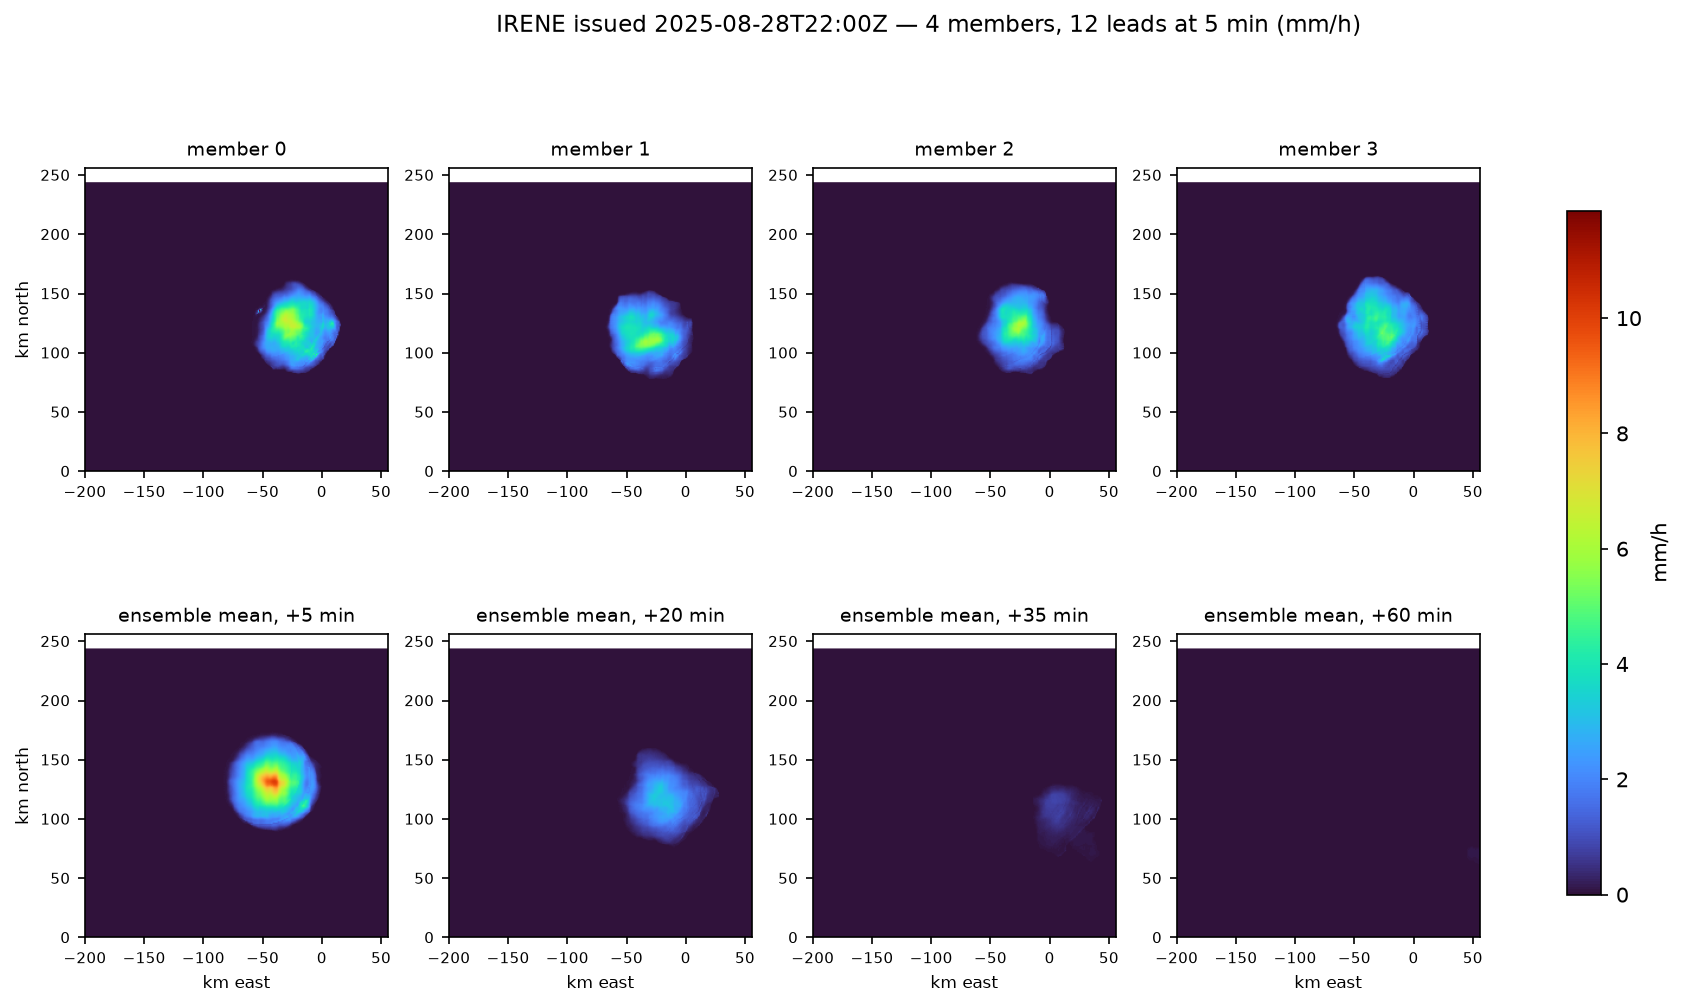
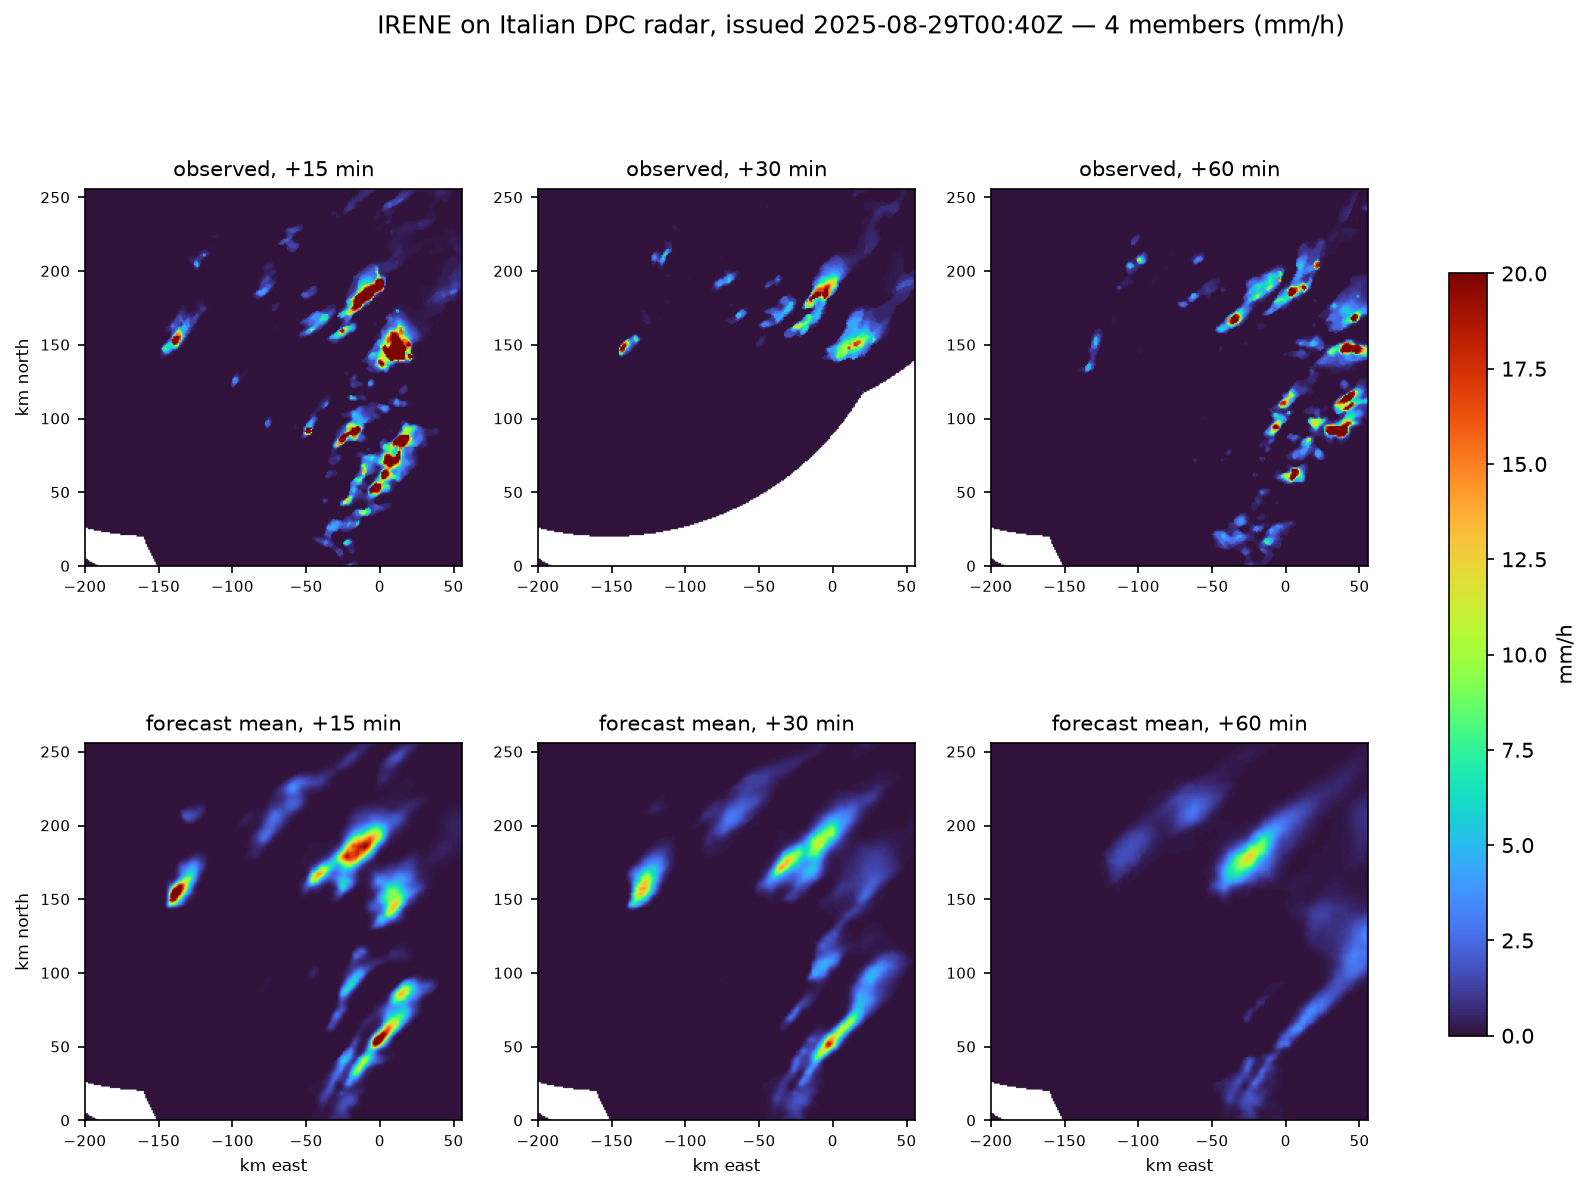
docs(irene): run on real radar instead of a synthetic blob
The IRENE port ran on a Gaussian blob I generated. The published sample on the
Hub holds 54 real scans of the Italian mosaic, and it had only been used to
reverse-engineer the format: units, grid, NaN fraction, row order. The model
never saw it.

It does now. The six wettest consecutive scans of 29 August 2025, peaks of 66
to 90 mm/h over about 11,000 wet pixels, 1.5% missing.

The behaviour is different enough to matter. On the synthetic input the
forecast decayed to nothing within the hour and ensemble spread was 0.03 mm/h.
On real radar structure persists while intensity decays, 74 to 54 to 33 to 23
mm/h across the leads, and spread rises to 0.35 mm/h: real weather gives the
noisy decoder more to be uncertain about. A blob was not exercising the model,
only the plumbing.

The figure now shows the observation beside the forecast at the same lead
times, because the datacube contains the future the run was trying to predict.
Both the caption and the limitations section say plainly that one case with no
scores and no baseline is an illustration and not a verification.

This also turned a hypothetical into something I hit. The contracts assume one
observation per object, and the sample is a cube, so running on it required
splitting the cube outside the pipeline first. The tutorial says so, and says
what the fix would be if the operational feed turns out to be shaped that way.

Fixed while checking what would be committed: the generated .gitignore had
[…]

diff --git a/docs/_scripts/make_irene_figure.py b/docs/_scripts/make_irene_figure.py
@@ -1,11 +1,15 @@
-"""Render the IRENE ensemble figure from a real published run.
+"""Render the IRENE figure from a real published run, beside what was observed.
 
-Unlike the other figure, this one cannot be regenerated in CI: it needs the
-IRENE artifact bundle, which is 257 MB and not committed. Point it at a run
-directory produced locally.
+Cannot be regenerated in CI: it needs the IRENE artifact bundle, which is
+257 MB and not committed, and the published DPC sample. Run it locally:
 
     uv run --group docs python docs/_scripts/make_irene_figure.py \
-        --run models/irene/outputs/irene/dpc_sri/2025/08/28/2200Z
+        --run models/irene/outputs-real/irene/dpc_sri/2025/08/29/0040Z \
+        --truth %TEMP%/irene/sample_data.nc --truth-index 33
+
+The top row is what the radar actually recorded; the bottom row is the
+ensemble mean forecast for the same moments. One case is an illustration, not
+a verification, and the figure caption says so.
 """
 
 from __future__ import annotations
@@ -16,12 +20,16 @@ import sys
 from pathlib import Path
 
 STATIC = Path(__file__).resolve().parent.parent / "_static"
+# The deployment domain inside the native DPC mosaic, from Grid.locate.
+ROW0, COLUMN0, SIZE = 394, 400, 256
 
 
 def main() -> int:
     cli = argparse.ArgumentParser(description=__doc__)
     cli.add_argument("--run", type=Path, required=True, help="A published run directory")
-    cli.add_argument("--lead", type=int, default=3, help="Lead to show members for")
+    cli.add_argument("--truth", type=Path, help="The DPC datacube, for the observed panels")
+    cli.add_argument("--truth-index", type=int, help="Datacube index of the run time")
+    cli.add_argument("--leads", type=int, nargs="+", default=[3, 6, 12])
     args = cli.parse_args()
 
     manifest_path = args.run / "manifest.json"
@@ -39,67 +47,71 @@ def main() -> int:
     manifest = json.loads(manifest_path.read_text(encoding="utf-8"))
     outputs = manifest["outputs"]
     members = sorted({item["member"] for item in outputs})
-    leads = sorted({item["lead_hours"] for item in outputs})
 
-    def read(lead: int, member: int):
+    def forecast(lead: int, member: int):
         item = next(
-            entry
-            for entry in outputs
+            entry for entry in outputs
             if entry["lead_hours"] == lead and entry["member"] == member
         )
         with rasterio.open(args.run / item["name"]) as dataset:
-            return dataset.read(1, masked=True), dataset.bounds, item["valid_time"]
+            return dataset.read(1, masked=True).filled(np.nan), dataset.bounds
 
-    shown_leads = [leads[0], leads[len(leads) // 4], leads[len(leads) // 2], leads[-1]]
-    figure, axes = plt.subplots(2, 4, figsize=(15, 7.4), dpi=150)
+    def observed(lead: int):
+        import h5py
 
-    # The colour scale is shared, so panels are comparable rather than each
-    # being stretched to its own maximum.
-    peak = max(
-        float(read(args.lead, member)[0].max() or 0.0) for member in members[:4]
+        with h5py.File(args.truth, "r") as handle:
+            block = handle["RR"][
+                args.truth_index + lead,
+                ROW0 : ROW0 + SIZE,
+                COLUMN0 : COLUMN0 + SIZE,
+            ]
+        return np.asarray(block, dtype=np.float32)
+
+    _, bounds = forecast(args.leads[0], 0)
+    extent = (
+        bounds.left / 1000, bounds.right / 1000,
+        bounds.bottom / 1000, bounds.top / 1000,
     )
-    peak = max(peak, 0.5)
+    has_truth = args.truth is not None and args.truth_index is not None
+    rows = 2 if has_truth else 1
+    figure, axes = plt.subplots(
+        rows, len(args.leads), figsize=(4.6 * len(args.leads), 4.4 * rows), dpi=150
+    )
+    axes = np.atleast_2d(axes)
 
-    for axis, member in zip(axes[0], members[:4], strict=False):
-        field, bounds, valid = read(args.lead, member)
+    # One scale for every panel, so forecast and observation are comparable.
+    peak = 20.0
+    step = int(manifest["step_seconds"] // 60)
+
+    def draw(axis, field, title):
         image = axis.imshow(
-            field,
-            origin="upper",
-            extent=(bounds.left / 1000, bounds.right / 1000,
-                    bounds.bottom / 1000, bounds.top / 1000),
-            cmap="turbo",
-            vmin=0.0,
-            vmax=peak,
+            field, origin="upper", extent=extent, cmap="turbo", vmin=0.0, vmax=peak
         )
-        axis.set_title(f"member {member}", fontsize=9)
+        axis.set_title(title, fontsize=10)
         axis.tick_params(labelsize=7)
-    axes[0][0].set_ylabel("km north", fontsize=8)
+        return image
 
-    for axis, lead in zip(axes[1], shown_leads, strict=False):
-        stack = np.stack([read(lead, member)[0].filled(np.nan) for member in members])
+    if has_truth:
+        for axis, lead in zip(axes[0], args.leads, strict=True):
+            draw(axis, observed(lead), f"observed, +{lead * step} min")
+        axes[0][0].set_ylabel("km north", fontsize=8)
+
+    row = axes[-1]
+    for axis, lead in zip(row, args.leads, strict=True):
+        stack = np.stack([forecast(lead, member)[0] for member in members])
         with np.errstate(invalid="ignore"):
             mean = np.nanmean(stack, axis=0)
-        image = axis.imshow(
-            mean,
-            origin="upper",
-            extent=(bounds.left / 1000, bounds.right / 1000,
-                    bounds.bottom / 1000, bounds.top / 1000),
-            cmap="turbo",
-            vmin=0.0,
-            vmax=peak,
-        )
-        axis.set_title(f"ensemble mean, +{lead * 5} min", fontsize=9)
+        image = draw(axis, mean, f"forecast mean, +{lead * step} min")
         axis.set_xlabel("km east", fontsize=8)
-        axis.tick_params(labelsize=7)
-    axes[1][0].set_ylabel("km north", fontsize=8)
+    row[0].set_ylabel("km north", fontsize=8)
 
     figure.suptitle(
-        f"{manifest['model']} issued {manifest['run_time'][:16]}Z — "
-        f"{len(members)} members, {len(leads)} leads at "
-        f"{int(manifest['step_seconds'] // 60)} min ({manifest['units']})",
-        fontsize=11,
+        f"{manifest['model']} on Italian DPC radar, issued "
+        f"{manifest['run_time'][:16]}Z — {len(members)} members "
+        f"({manifest['units']})",
+        fontsize=12,
     )
-    figure.colorbar(image, ax=axes, shrink=0.8, label=manifest["units"])
+    figure.colorbar(image, ax=axes, shrink=0.75, label=manifest["units"])
     destination = STATIC / "irene-ensemble.png"
     figure.savefig(destination, bbox_inches="tight", facecolor="white")
     plt.close(figure)

diff --git a/packages/nowcast-runtime/src/nowcast_runtime/scaffold.py b/packages/nowcast-runtime/src/nowcast_runtime/scaffold.py
@@ -524,8 +524,9 @@ COMPOSE = Template('''services:
 
 GITIGNORE = """.venv/
 __pycache__/
-outputs/
-data/
+# Trailing glob: a run written to outputs-real/ or data/real/ is still output.
+outputs*/
+data*/
 *.pth
 *.pt
 *.ckpt

diff --git a/docs/tutorials/06-porting-a-published-model.md b/docs/tutorials/06-porting-a-published-model.md
@@ -29,10 +29,19 @@ runtime** and **two to the conformance suite**. All three are described below,
 because a platform that only reports its successes is not worth trusting.
 ```
 
-![Four ensemble members at +15 min and the ensemble mean through the hour, from real IRENE weights](../_static/irene-ensemble.png)
+![Observed Italian radar against the IRENE ensemble mean at three lead times](../_static/irene-ensemble.png)
 
-Four members, visibly different, and the cell decaying over the hour. The white
-strip along the top is the radar coverage mask carried through from the inputs.
+Real Italian radar, 29 August 2025. The top row is what the radar recorded;
+the bottom row is the ensemble mean forecast for the same moments. Detail
+decays with lead time, which is what a nowcaster does. The white region in
+the +30 min observation is a coverage dropout in that scan, carried through
+as NoData rather than invented.
+
+```{warning}
+One case is an **illustration, not a verification**. No score is computed
+here and none should be inferred. Whether IRENE has skill over Italy is a
+question for its authors and its own validation record.
+```
 
 ## 1. Read the model before writing anything
 
@@ -234,7 +243,8 @@ constraint without padding.
 
 ## 8. Run it
 
-**From the workspace root:**
+The project generates synthetic scans for a smoke test, which is what the
+conformance suite also uses. **From the workspace root:**
 
 ```bash
 uv run --directory models/irene python tools/make_sample_inputs.py \
@@ -243,6 +253,35 @@ uv run --directory models/irene irene-nowcast \
     --config config/default.json --source local \
     --input-dir data/raw --output-dir outputs --device cpu
 ```
+
+### On real radar
+
+The figure above is not from those. The repository's published sample,
+`examples/sample_data.nc`, holds 54 real scans of 29 August 2025, and the
+run shown used the six wettest consecutive ones:
+
+```text
+  dpc_sri.202508290015.nc  nan  1.5%  wet  10667  max  90.19 mm/h
+  dpc_sri.202508290020.nc  nan  1.5%  wet  11099  max  71.06 mm/h
+  dpc_sri.202508290025.nc  nan  1.5%  wet  10675  max  66.56 mm/h
+  dpc_sri.202508290030.nc  nan  1.5%  wet  10305  max  73.00 mm/h
+  dpc_sri.202508290035.nc  nan  1.5%  wet  11004  max  78.12 mm/h
+  dpc_sri.202508290040.nc  nan  1.5%  wet  11165  max  74.19 mm/h
+```
+
+What came out, against 11,165 wet pixels observed at the run time with a
+peak of 74.19 mm/h:
+
+```text
+  + 5 min : wet  22853  max  54.03  mean 2.143 mm/h
+  +15 min : wet  15549  max  62.23  mean 3.211 mm/h
+  +30 min : wet  15816  max  33.39  mean 2.586 mm/h
+  +60 min : wet  15333  max  23.12  mean 1.767 mm/h
+```
+
+Structure persists and intensity decays, which is the expected behaviour.
+Ensemble spread at +30 min is 0.35 mm/h against 0.03 on the synthetic
+input: real weather gives the decoder more to be uncertain about.
 
 ```text
 INFO Model ready on cpu; 6 input steps
@@ -301,22 +340,25 @@ worked the first time they met a model that actually used them.
 ## What this does not show
 
 ```{warning}
-**No skill is demonstrated here.** The inputs are a synthetic moving blob. The
-forecast decaying to nothing over the hour is what that input deserves and says
-nothing about the model's behaviour on real radar.
+**No skill is demonstrated here.** One case, no scores, no baseline. The
+forecast looks reasonable beside the observation, and that is an anecdote.
 
-The CRS is asserted, not verified. The one-file-per-scan assumption is not
-confirmed against the operational DPC feed. Whether IRENE is useful over Italy
-is a question for its authors and its own validation record, and nothing in
-this platform will answer it.
+The CRS is asserted, not verified. Whether IRENE is useful over Italy is a
+question for its authors and its own validation record, and nothing in this
+platform will answer it.
 ```
 
-### A limitation the port did surface
+### A limitation the port actually hit
 
 The published sample is a **datacube**: 54 timesteps in one NetCDF. The
 contracts assume **one observation per object** — `observed_at` maps one file
 name to one time, and `fetch` returns a `Path` with nowhere to carry an index.
 
-If the operational feed is one file per five-minute scan, as the port assumes,
-this never matters. If it is a datacube, the contracts cannot express it today,
-and that would be the first genuine port this platform is missing.
+This was not hypothetical. Running on the real sample required splitting the
+cube into per-scan files first, outside the pipeline, because there is no way
+to express it inside.
+
+If the operational DPC feed publishes one file per five-minute scan, as this
+port assumes, it never matters. If it publishes cubes, this is the first
+genuinely missing port, and it would need either a source that explodes a cube
+into virtual observations or a `fetch` that can carry an index.
